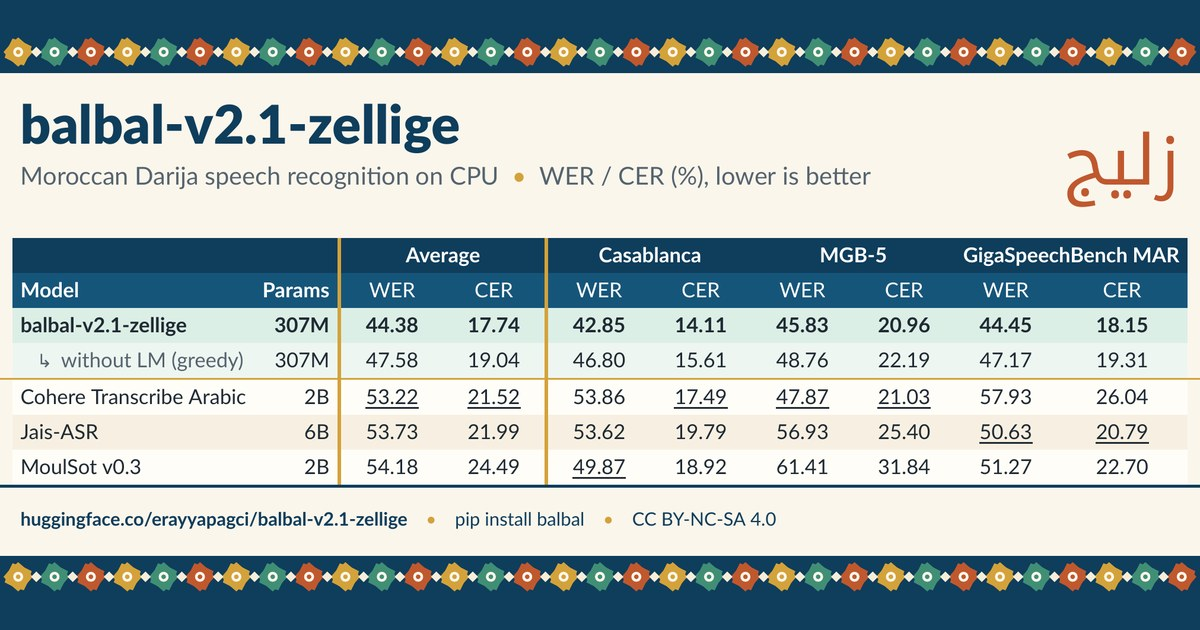
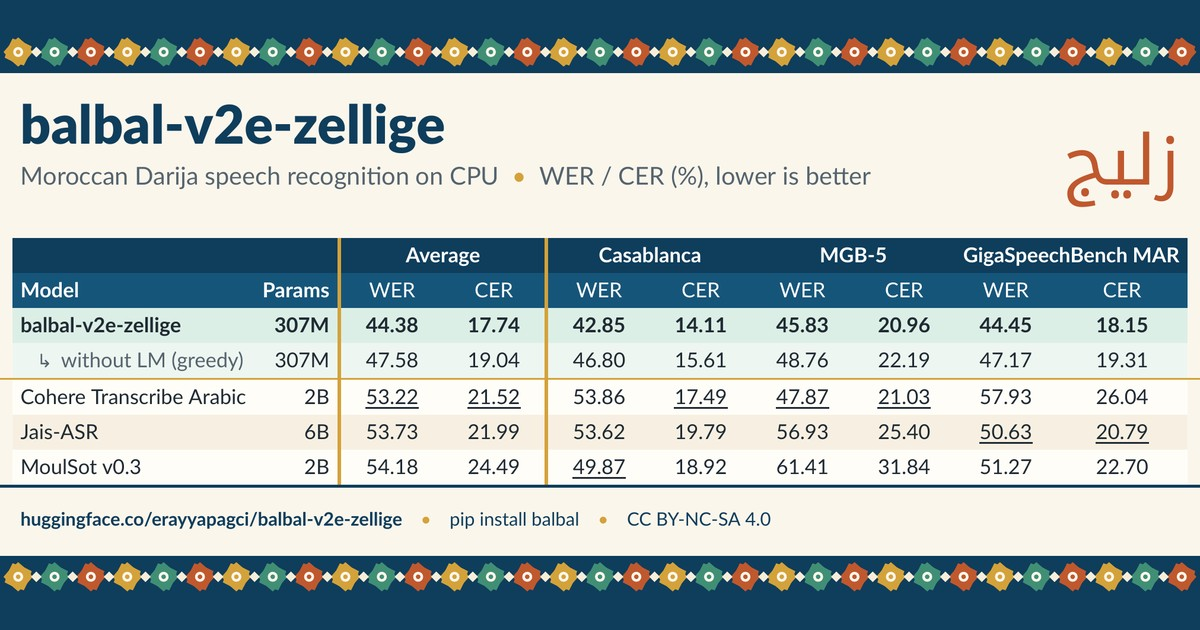
zellige: rename the model to balbal-v2e-zellige (the e stands for experimental)

Changed region(s): [[0.185, 0.1508, 0.4008, 0.2413], [0.2775, 0.8143, 0.6475, 0.8444], [0.0925, 0.4825, 0.1542, 0.5429]]

diff --git a/zellige/index.html b/zellige/index.html
@@ -4,9 +4,9 @@
     <meta charset="utf-8" />
     <meta name="viewport" content="width=device-width,initial-scale=1" />
     <meta name="color-scheme" content="light" />
-    <title>balbal-v2.1-zellige · Moroccan Darija speech recognition demo</title>
-    <meta name="description" content="Try balbal-v2.1-zellige, an open Moroccan Darija speech recognition model that runs on a CPU. Speak or upload audio and get Darija text. Recordings made on this page are saved to improve the model, with your consent." />
-    <meta property="og:title" content="balbal-v2.1-zellige · Moroccan Darija speech recognition" />
+    <title>balbal-v2e-zellige · Moroccan Darija speech recognition demo</title>
+    <meta name="description" content="Try balbal-v2e-zellige, an open Moroccan Darija speech recognition model that runs on a CPU. Speak or upload audio and get Darija text. Recordings made on this page are saved to improve the model, with your consent." />
+    <meta property="og:title" content="balbal-v2e-zellige · Moroccan Darija speech recognition" />
     <meta property="og:description" content="Open Moroccan Darija speech-to-text on a CPU. Speak Darija and help improve the model." />
     <meta property="og:url" content="https://erayy.com/zellige/" />
     <meta property="og:type" content="website" />
@@ -31,13 +31,13 @@
     <div class="strip" aria-hidden="true"></div>
     <header class="top">
       <a class="wordmark" href="/">erayy<span> / lab</span></a>
-      <nav><a href="/balbal/">balbal</a><a href="https://huggingface.co/erayyapagci/balbal-v2.1-zellige" target="_blank" rel="noopener">Hugging Face ↗</a></nav>
+      <nav><a href="/balbal/">balbal</a><a href="https://huggingface.co/erayyapagci/balbal-v2e-zellige" target="_blank" rel="noopener">Hugging Face ↗</a></nav>
     </header>
 
     <section class="hero">
       <div class="hero-text">
         <p class="badge">Experimental preview</p>
-        <h1>balbal-v2.1-zellige</h1>
+        <h1>balbal-v2e-zellige</h1>
         <p class="lede">Open <strong>Moroccan Darija</strong> speech recognition that runs on a CPU. Speak Darija, get Darija text.</p>
         <p class="facts"><span>307M parameters</span><span>Arabic script output</span><span>CC BY-NC-SA 4.0</span></p>
       </div>
@@ -144,7 +144,7 @@
               </tr>
             </thead>
             <tbody>
-              <tr class="ours"><th scope="row" class="name">balbal-v2.1-zellige</th><td>307M</td><td class="avg-l">44.38</td><td class="avg-r">17.74</td><td>42.85</td><td>14.11</td><td>45.83</td><td>20.96</td><td>44.45</td><td>18.15</td></tr>
+              <tr class="ours"><th scope="row" class="name">balbal-v2e-zellige</th><td>307M</td><td class="avg-l">44.38</td><td class="avg-r">17.74</td><td>42.85</td><td>14.11</td><td>45.83</td><td>20.96</td><td>44.45</td><td>18.15</td></tr>
               <tr class="ours sub-row"><th scope="row" class="name">↳ without LM</th><td>307M</td><td class="avg-l">47.58</td><td class="avg-r">19.04</td><td>46.80</td><td>15.61</td><td>48.76</td><td>22.19</td><td>47.17</td><td>19.31</td></tr>
               <tr><th scope="row" class="name">Cohere Transcribe Arabic</th><td>2B</td><td class="avg-l">53.22</td><td class="avg-r">21.52</td><td>53.86</td><td>17.49</td><td>47.87</td><td>21.03</td><td>57.93</td><td>26.04</td></tr>
               <tr><th scope="row" class="name">Jais-ASR</th><td>6B</td><td class="avg-l">53.73</td><td class="avg-r">21.99</td><td>53.62</td><td>19.79</td><td>56.93</td><td>25.40</td><td>50.63</td><td>20.79</td></tr>
@@ -160,7 +160,7 @@
 balbal run --model zellige speech.wav</code></pre>
         <p>
           Offline on a CPU (Linux, macOS, Windows). Weights on
-          <a href="https://huggingface.co/erayyapagci/balbal-v2.1-zellige" target="_blank" rel="noopener">Hugging Face ↗</a>,
+          <a href="https://huggingface.co/erayyapagci/balbal-v2e-zellige" target="_blank" rel="noopener">Hugging Face ↗</a>,
           code on <a href="https://github.com/erayyap/balbal" target="_blank" rel="noopener">GitHub ↗</a>.
           The model is released under <a href="https://creativecommons.org/licenses/by-nc-sa/4.0/" target="_blank" rel="noopener">CC BY-NC-SA 4.0</a>
           (non-commercial). Fine-tuned from

diff --git a/zellige/app.js b/zellige/app.js
@@ -1,10 +1,10 @@
 "use strict";
-// erayy.com/zellige (2026-11-08): balbal-v2.1-zellige (Moroccan Darija) demo. Same backend as /stt-demo (Cloudflare tunnel to
+// erayy.com/zellige (2026-11-08): balbal-v2e-zellige (Moroccan Darija) demo. Same backend as /stt-demo (Cloudflare tunnel to
 // Predator), model picked with X-Model. Unlike /stt-demo, recordings are SAVED to develop the model: nothing can be recorded,
 // uploaded or sent before the visitor ticks the consent box, and every request carries X-Consent with the consent text version.
 // Each result has a recording ID; this browser can send a corrected transcript or delete the recording with it.
 const API = "https://stt-api.erayy.com/guess-size-api";
-const MODEL = "balbal-v2.1-zellige";
+const MODEL = "balbal-v2e-zellige";
 const CONSENT_VERSION = "zellige-v1";
 const $ = (id) => document.getElementById(id);
 let clip = null,

diff --git a/index.html b/index.html
@@ -195,7 +195,7 @@
             <article class="entry">
               <div class="entry__when">Speech recognition · Moroccan Darija</div>
               <div class="entry__what">
-                <h3><a href="/zellige/">balbal-v2.1-zellige →</a></h3>
+                <h3><a href="/zellige/">balbal-v2e-zellige →</a></h3>
                 <p>
                   Experimental open speech recognition for Moroccan Darija, on a CPU.
                   Lower error rates than Cohere Transcribe, Jais-ASR and MoulSot on

diff --git a/zellige/style.css b/zellige/style.css
@@ -1,4 +1,4 @@
-/* erayy.com/zellige: balbal-v2.1-zellige demo (2026-11-08). Fes blue, emerald, terracotta and gold on cream, khatam star strips. */
+/* erayy.com/zellige: balbal-v2e-zellige demo (2026-11-08). Fes blue, emerald, terracotta and gold on cream, khatam star strips. */
 :root {
   --cream: #fbf6ec;
   --cream-dk: #f1e7d3;
